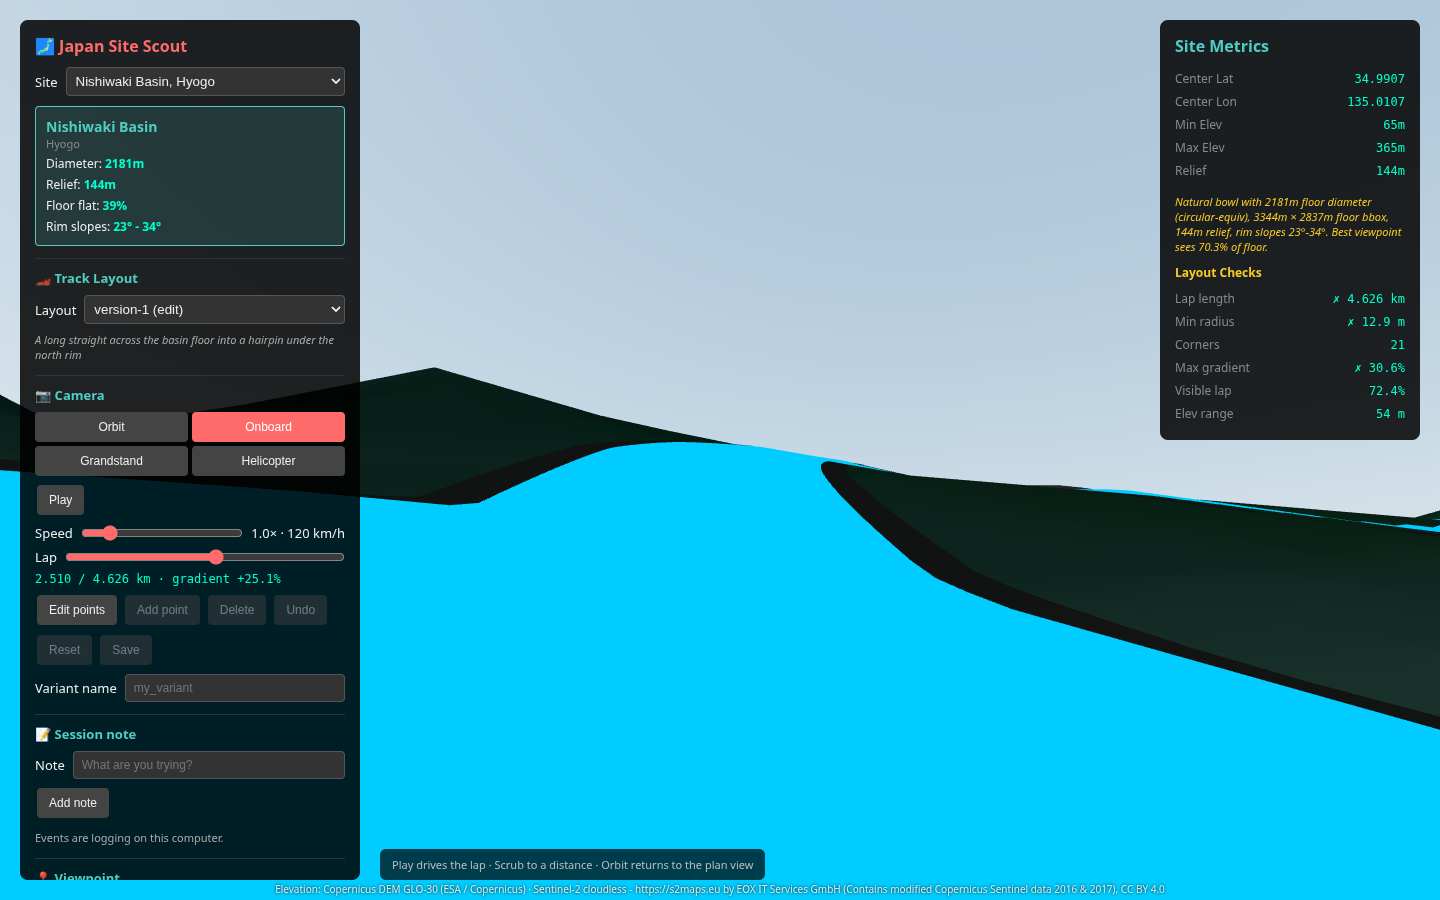
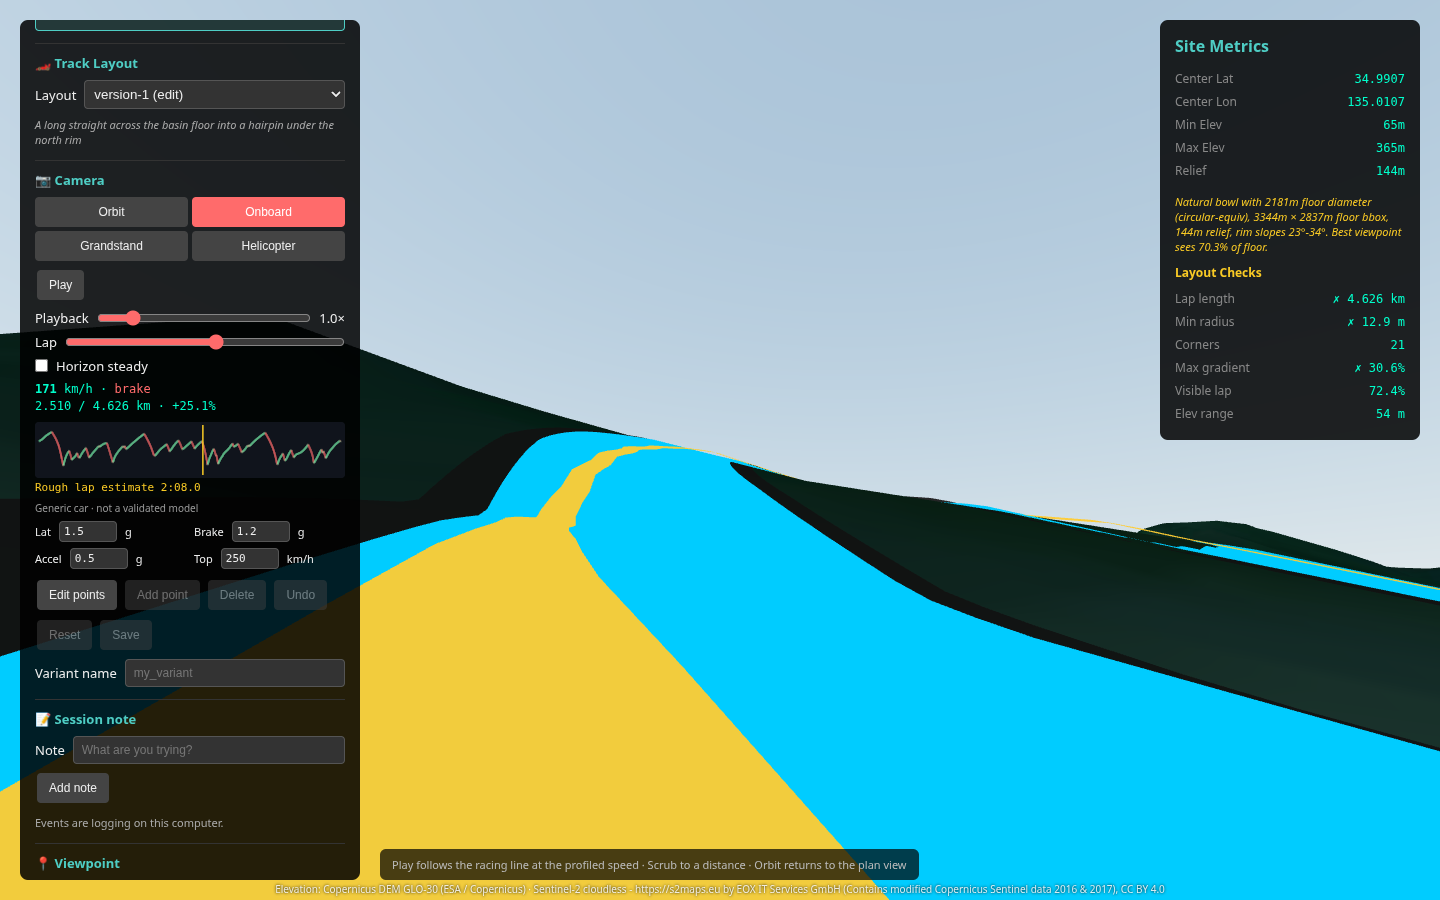
Release a bound station when its curvature gradient points inward.
The active-set test kept an offset on the track edge whenever the gradient was not strongly outward, so clipped stations stayed clipped instead of minimising curvature. A station now stays on the upper bound only while its gradient is nonpositive, and on the lower bound only while its gradient is nonnegative. The racing-line check reports that bound residual.

diff --git a/viewer/drive_profile.js b/viewer/drive_profile.js
@@ -24,7 +24,8 @@ const LINE_CORNER_RADIUS_M = 170;
 const LINE_LONG_STRAIGHT_M = 180;
 const LINE_LATE_APEX_BOOST = 10;
 const LINE_MIN_LATE_TURN_RAD = 20 * Math.PI / 180;
-const LINE_OFFSET_SMOOTH = 5;
+const LINE_SLOPE = 2e-3;
+const LINE_OFFSET_SMOOTH = 3;
 const RADIUS_HALF_WINDOW_M = 10;
 const CURVATURE_SMOOTH_SAMPLES = 3;
 const SPEED_ITERS = 32;
@@ -308,39 +309,32 @@ function zeroBandEntry(band, i, j) {
 }
 
 // Bound-constrained convex QP, min 0.5 n·H·n + g·n, |n| <= limit.
-// H is cyclic pentadiagonal. Points stay on a bound only while the gradient
-// still pushes them outward, so a corner can use the apex without pinning
-// the whole straight.
+// H is cyclic pentadiagonal. The working set is the stations held on a
+// bound. A full step that stays inside is optimal on that face, and a
+// station is released only when its gradient points back inside: nonpositive
+// on the upper bound, nonnegative on the lower. A step that would leave the
+// track stops on the bound and adds that station.
 function solveBoundedOffsets(band, g, limit) {
     const n = g.length;
     const fixed = new Int8Array(n);
-    const boundValue = new Float64Array(n);
     const first = solveCyclic(band, Float64Array.from(g, (v) => -v));
     const x = first ? first.slice() : new Float64Array(n);
-    for (let i = 0; i < n; i++) x[i] = clamp(x[i], -limit, limit);
-    for (let iter = 0; iter < 12; iter++) {
-        const grad = applyFull(band, x);
-        for (let i = 0; i < n; i++) grad[i] += g[i];
-        for (let i = 0; i < n; i++) {
-            const atHi = x[i] >= limit - 1e-6;
-            const atLo = x[i] <= -limit + 1e-6;
-            if (atHi && !atLo && grad[i] >= -1e-7) {
-                fixed[i] = 1;
-                boundValue[i] = limit;
-                x[i] = limit;
-            } else if (atLo && !atHi && grad[i] <= 1e-7) {
-                fixed[i] = -1;
-                boundValue[i] = -limit;
-                x[i] = -limit;
-            } else {
-                fixed[i] = 0;
-            }
+    for (let i = 0; i < n; i++) {
+        if (x[i] >= limit) {
+            x[i] = limit;
+            fixed[i] = 1;
+        } else if (x[i] <= -limit) {
+            x[i] = -limit;
+            fixed[i] = -1;
         }
+    }
+
+    const faceTarget = () => {
         const reduced = copyBand(band);
         const rhs = Float64Array.from(g, (v) => -v);
         for (let i = 0; i < n; i++) {
             if (fixed[i] === 0) continue;
-            const v = boundValue[i];
+            const v = fixed[i] > 0 ? limit : -limit;
             for (const j of coupledIndices(n, i)) {
                 const hij = bandEntry(reduced, i, j);
                 if (hij !== 0) rhs[j] -= hij * v;
@@ -349,21 +343,85 @@ function solveBoundedOffsets(band, g, limit) {
             reduced.d0[i] = 1;
             rhs[i] = v;
         }
-        const solved = solveCyclic(reduced, rhs);
-        if (!solved) break;
-        let viol = 0;
-        let moved = 0;
+        return solveCyclic(reduced, rhs);
+    };
+
+    for (let iter = 0; iter < n + 8; iter++) {
+        const target = faceTarget();
+        if (!target) break;
+        const dir = new Float64Array(n);
+        const hitAt = new Float64Array(n);
+        hitAt.fill(Infinity);
+        let alpha = 1;
         for (let i = 0; i < n; i++) {
-            let v = fixed[i] !== 0 ? boundValue[i] : solved[i];
-            if (v > limit) { v = limit; viol++; }
-            else if (v < -limit) { v = -limit; viol++; }
-            moved = Math.max(moved, Math.abs(v - x[i]));
-            x[i] = v;
+            if (fixed[i] !== 0) continue;
+            const p = target[i] - x[i];
+            dir[i] = p;
+            if (Math.abs(p) < 1e-12) continue;
+            let room = Infinity;
+            if (p > 0) room = (limit - x[i]) / p;
+            else room = (-limit - x[i]) / p;
+            if (room < 1 - 1e-12) {
+                if (room < 0) room = 0;
+                hitAt[i] = room;
+                if (room < alpha) alpha = room;
+            }
         }
-        if (viol === 0 && moved < 1e-3) break;
+        for (let i = 0; i < n; i++) {
+            if (fixed[i] > 0) x[i] = limit;
+            else if (fixed[i] < 0) x[i] = -limit;
+            else x[i] = clamp(x[i] + alpha * dir[i], -limit, limit);
+        }
+        if (alpha < 1 - 1e-10) {
+            for (let i = 0; i < n; i++) {
+                if (fixed[i] !== 0 || !(hitAt[i] <= alpha + 1e-8)) continue;
+                fixed[i] = dir[i] > 0 ? 1 : -1;
+                x[i] = fixed[i] > 0 ? limit : -limit;
+            }
+            continue;
+        }
+        const grad = applyFull(band, x);
+        for (let i = 0; i < n; i++) grad[i] += g[i];
+        let scale = 0;
+        for (let i = 0; i < n; i++) scale = Math.max(scale, Math.abs(grad[i]), Math.abs(g[i]));
+        const tol = 1e-7 * Math.max(scale, 1);
+        let drop = -1;
+        let dropInward = tol;
+        for (let i = 0; i < n; i++) {
+            if (fixed[i] === 0) continue;
+            const inward = fixed[i] > 0 ? grad[i] : -grad[i];
+            if (inward > dropInward) {
+                dropInward = inward;
+                drop = i;
+            }
+        }
+        if (drop < 0) break;
+        fixed[drop] = 0;
     }
     for (let i = 0; i < n; i++) x[i] = clamp(x[i], -limit, limit);
     return x;
+}
+
+// Largest KKT violation of |x| <= limit, divided by the largest |linear
+// term|. Zero when every free station is stationary and every bound station
+// has its gradient pointing outward. The scale is the curvature forcing, so
+// a clipped station whose objective still falls by moving inward does not
+// hide behind a large outward multiplier somewhere else.
+function boundGradientViolation(band, g, x, limit) {
+    const grad = applyFull(band, x);
+    let scale = 0;
+    for (let i = 0; i < g.length; i++) scale = Math.max(scale, Math.abs(g[i]));
+    let violation = 0;
+    for (let i = 0; i < x.length; i++) {
+        const gi = grad[i] + g[i];
+        const atHi = x[i] >= limit - 1e-4;
+        const atLo = x[i] <= -limit + 1e-4;
+        let inward = Math.abs(gi);
+        if (atHi && !atLo) inward = Math.max(0, gi);
+        else if (atLo && !atHi) inward = Math.max(0, -gi);
+        if (inward > violation) violation = inward;
+    }
+    return violation / Math.max(scale, 1e-12);
 }
 
 function lateApexWeights(kappa, ds) {
@@ -409,6 +467,11 @@ function lateApexWeights(kappa, ds) {
     return weight;
 }
 
+// Minimise (centreline curvature + offset second derivative)^2, plus a small
+// penalty on the offset's slope. The curvature term puts a real corner
+// outside, then apex, then outside. The slope term keeps that apex from
+// being one sideways step. Literal summed squared curvature of the polyline
+// is not the objective: on a hairpin it sits on the outside and never apexes.
 function stationOffsets(kappaRaw, ds, limit) {
     const kappa = circularSmooth(kappaRaw, 1);
     const n = kappa.length;
@@ -416,6 +479,7 @@ function stationOffsets(kappaRaw, ds, limit) {
     const a = 1 / (ds * ds);
     const band = emptyBand(n);
     const g = new Float64Array(n);
+    const slope = LINE_SLOPE / ds;
     for (let s = 0; s < n; s++) {
         const im = (s - 1 + n) % n;
         const ip = (s + 1) % n;
@@ -428,9 +492,13 @@ function stationOffsets(kappaRaw, ds, limit) {
             }
             g[idx[p]] += 2 * w * coef[p] * kappa[s];
         }
+        addEntry(band, s, s, 2 * slope);
+        addEntry(band, ip, ip, 2 * slope);
+        addEntry(band, s, ip, -2 * slope);
     }
     for (let s = 0; s < n; s++) band.d0[s] += 2 * ds * LINE_RIDGE;
-    return solveBoundedOffsets(band, g, limit);
+    const solved = solveBoundedOffsets(band, g, limit);
+    return { solved, violation: boundGradientViolation(band, g, solved, limit) };
 }
 
 function valueAtDistance(distance, values, target, lap) {
@@ -464,10 +532,19 @@ function minimumCurvatureOffsets(frame, limitM) {
     for (let s = 0; s < nSta; s++) {
         stationKappa[s] = valueAtDistance(distance, kappaFine, s * ds, lap);
     }
-    const solved = stationOffsets(stationKappa, ds, limitM);
-    // A short moving average keeps the corner entry from kinking. The curvature
-    // term on its own can cancel a bend with one sharp offset change.
-    const stationN = circularSmooth(solved, LINE_OFFSET_SMOOTH).map((v) => clamp(v, -limitM, limitM));
+    const station = stationOffsets(stationKappa, ds, limitM);
+    const solved = station.solved;
+    // Smooth the turn-in. A hairpin apex is only a couple of stations wide,
+    // so put half of that peak back — otherwise the average misses the inside.
+    const blurred = circularSmooth(solved, LINE_OFFSET_SMOOTH);
+    const stationN = blurred.map((v, i) => {
+        const prev = solved[(i - 1 + solved.length) % solved.length];
+        const next = solved[(i + 1) % solved.length];
+        const peak = Math.abs(solved[i]) >= Math.abs(prev) && Math.abs(solved[i]) >= Math.abs(next)
+            && Math.abs(solved[i]) > 0.75 * limitM;
+        const mixed = peak ? 0.7 * v + 0.3 * solved[i] : v;
+        return clamp(mixed, -limitM, limitM);
+    });
     const offsets = new Array(n);
     for (let i = 0; i < n; i++) {
         let u = distance[i] / ds;
@@ -478,7 +555,7 @@ function minimumCurvatureOffsets(frame, limitM) {
         const blend = t * t * (3 - 2 * t);
         offsets[i] = clamp(stationN[s0] * (1 - blend) + stationN[s1] * blend, -limitM, limitM);
     }
-    return offsets;
+    return { offsets, boundViolation: station.violation };
 }
 
 function mengerRadius(x1, y1, x2, y2, x3, y3) {
@@ -578,7 +655,8 @@ export function buildDriveProfile(points, options = {}) {
     const limitM = Math.max(0.4, car.trackWidthM / 2 - car.marginM);
     const frame = centrelineFrame(points, options.lapLengthM || 0);
     const { n, cx, cy, distance, nx, ny, lap } = frame;
-    const offsets = minimumCurvatureOffsets(frame, limitM);
+    const line = minimumCurvatureOffsets(frame, limitM);
+    const offsets = line.offsets;
     const x = new Array(n);
     const y = new Array(n);
     const z = new Array(n);
@@ -656,6 +734,7 @@ export function buildDriveProfile(points, options = {}) {
         minSpeedMps: minSpeed,
         maxSpeedMps: maxSpeed,
         maxAbsOffsetM: maxAbsOffset,
+        boundViolation: line.boundViolation,
         accelMps2: solved.aAcc,
         brakeMps2: solved.aBrk,
         samples,
